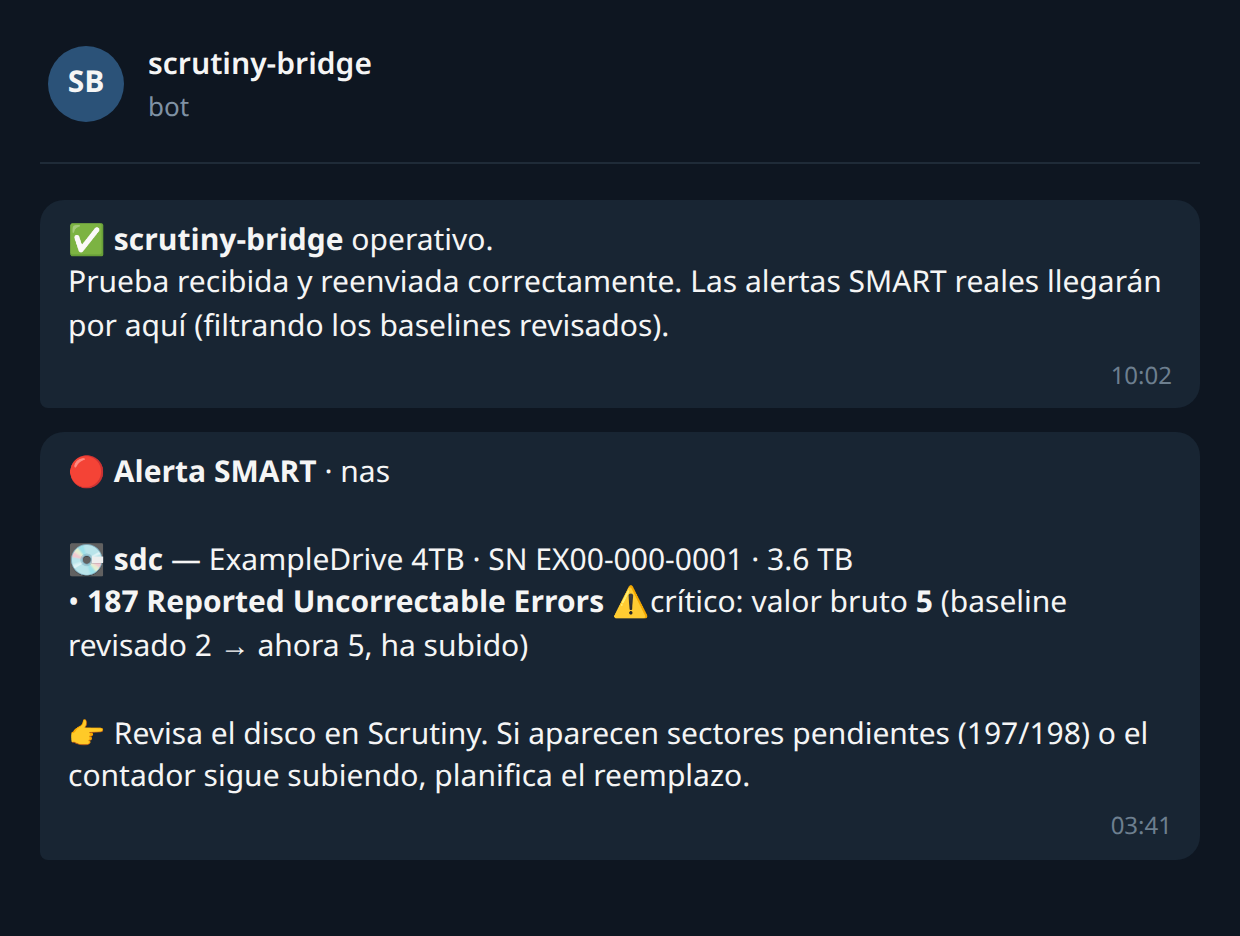
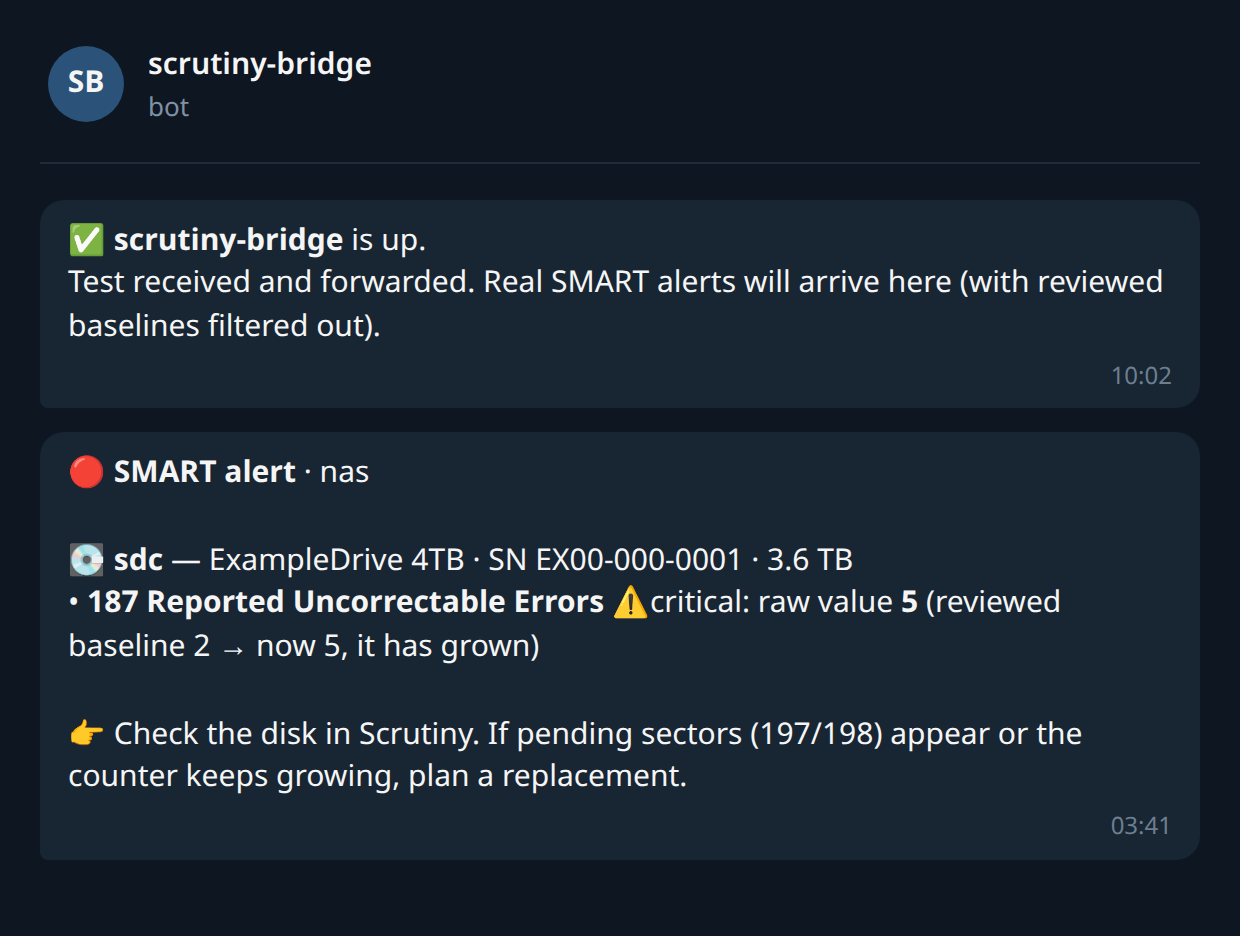
Add MESSAGE_LANGUAGE (es, en) for the Telegram messages

diff --git a/app.py b/app.py
@@ -36,6 +36,7 @@ TG_CHAT = _env("TG_CHAT", "")                 # e.g. -1001234567890
 TG_THREAD = _env("TG_THREAD", "")             # forum topic id (optional)
 PORT = int(_env("PORT", "8091"))
 HOST_LABEL = _env("HOST_LABEL", "")           # shown in the message header (optional)
+MESSAGE_LANGUAGE = _env("MESSAGE_LANGUAGE", "es")  # language of the Telegram messages: es | en
 
 # Whitelisted baselines: { "<wwn>": { "<attr_id>": <max_raw_value> | null } }
 # An attribute flagged by Scrutiny is suppressed only if its raw value is <= the baseline.
@@ -220,8 +221,41 @@ def collect_reportable():
     return reportable
 
 
+# Telegram copy per MESSAGE_LANGUAGE. Add a language by adding a key with the same fields.
+MESSAGES = {
+    "es": {
+        "head": "Alerta SMART",
+        "unverified": "Scrutiny la marca con fallo (no pude leer los atributos).",
+        "critical": "crítico",
+        "trend": "baseline revisado %s → ahora %s, ha subido",
+        "raw": "valor bruto",
+        "advice": "Revisa el disco en Scrutiny. Si aparecen sectores pendientes (197/198) "
+                  "o el contador sigue subiendo, planifica el reemplazo.",
+        "test": "✅ <b>scrutiny-bridge</b> operativo.\n"
+                "Prueba recibida y reenviada correctamente. "
+                "Las alertas SMART reales llegarán por aquí (filtrando los baselines revisados).",
+    },
+    "en": {
+        "head": "SMART alert",
+        "unverified": "Scrutiny flags it as failing (could not read its attributes).",
+        "critical": "critical",
+        "trend": "reviewed baseline %s → now %s, it has grown",
+        "raw": "raw value",
+        "advice": "Check the disk in Scrutiny. If pending sectors (197/198) appear "
+                  "or the counter keeps growing, plan a replacement.",
+        "test": "✅ <b>scrutiny-bridge</b> is up.\n"
+                "Test received and forwarded. "
+                "Real SMART alerts will arrive here (with reviewed baselines filtered out).",
+    },
+}
+if MESSAGE_LANGUAGE not in MESSAGES:
+    print("[bridge] WARN: unknown MESSAGE_LANGUAGE %r, using es" % MESSAGE_LANGUAGE, flush=True)
+    MESSAGE_LANGUAGE = "es"
+T = MESSAGES[MESSAGE_LANGUAGE]
+
+
 def build_message(reportable):
-    head = "🔴 <b>Alerta SMART</b>"
+    head = "🔴 <b>%s</b>" % T["head"]
     if HOST_LABEL:
         head += " · " + esc(HOST_LABEL)
     lines = [head, ""]
@@ -233,19 +267,17 @@ def build_message(reportable):
         cap = human_bytes(d.get("capacity"))
         lines.append("💽 <b>%s</b> — %s · SN %s · %s" % (name, model, serial, cap))
         if item.get("unverified"):
-            lines.append("   ⚠ Scrutiny la marca con fallo (no pude leer los atributos).")
+            lines.append("   ⚠ " + T["unverified"])
         for a in item["attrs"]:
-            crit = " ⚠crítico" if a["critical"] else ""
+            crit = " ⚠" + T["critical"] if a["critical"] else ""
             trend = ""
             if a.get("baseline") is not None:
-                trend = " (baseline revisado %s → ahora %s, ha subido)" % (
-                    esc(a["baseline"]), esc(a.get("raw")))
-            lines.append("   • <b>%s %s</b>%s: valor bruto <b>%s</b>%s" % (
-                esc(a["id"]), esc(a["name"]), crit,
+                trend = " (" + T["trend"] % (esc(a["baseline"]), esc(a.get("raw"))) + ")"
+            lines.append("   • <b>%s %s</b>%s: %s <b>%s</b>%s" % (
+                esc(a["id"]), esc(a["name"]), crit, T["raw"],
                 esc(a.get("raw_string") or a.get("raw")), trend))
         lines.append("")
-    lines.append("👉 Revisa el disco en Scrutiny. Si aparecen sectores pendientes "
-                 "(197/198) o el contador sigue subiendo, planifica el reemplazo.")
+    lines.append("👉 " + T["advice"])
     return "\n".join(lines).strip()
 
 
@@ -257,11 +289,7 @@ def handle_notification(raw_body):
 
     if looks_like_test(raw_body, parsed):
         log("test notification received")
-        ok = send_telegram(
-            "✅ <b>scrutiny-bridge</b> operativo.\n"
-            "Prueba recibida y reenviada correctamente. "
-            "Las alertas SMART reales llegarán por aquí (filtrando los baselines revisados)."
-        )
+        ok = send_telegram(T["test"])
         return "test", ok
 
     reportable = collect_reportable()

diff --git a/README.md b/README.md
@@ -14,7 +14,7 @@ send or not send a Telegram message.
 
 <img src="docs/telegram-alert.png" alt="Two Telegram messages from the bridge: the test confirmation, and an alert for disk sdc whose reviewed baseline on attribute 187 went from 2 to 5" width="620">
 
-*The bridge's own message text (`build_message()`), rendered with sample disk data.*
+*The bridge's own message text (`build_message()` with `MESSAGE_LANGUAGE=en`), rendered with sample disk data.*
 
 ---
 
@@ -166,6 +166,7 @@ All configuration is through environment variables:
 | `TG_TOKEN_FILE` | `/app/telegram.token`       | Path to a file holding the Telegram bot token. |
 | `TG_TOKEN`      | *(empty)*                   | Alternative to the file: token straight from the env. |
 | `HOST_LABEL`    | *(empty)*                   | Optional label shown in the message header (e.g. the machine's name). |
+| `MESSAGE_LANGUAGE` | `es`                     | Language of the Telegram messages: `es` (Spanish) or `en` (English). |
 | `BASELINES`     | `{}`                        | JSON whitelist of reviewed baselines — see below. |
 
 ### Baselines — the whitelist
@@ -222,17 +223,17 @@ Other attributes on the same disk still alert normally.
 **Anything else is forwarded to Telegram**, e.g. when a baselined counter has grown:
 
 ```
-🔴 Alerta SMART · nas
+🔴 SMART alert · nas
 
 💽 sdc — ExampleDrive 4TB · SN EX00-000-0001 · 3.6 TB
-   • 187 Reported Uncorrectable Errors ⚠crítico: valor bruto 5 (baseline revisado 2 → ahora 5, ha subido)
+   • 187 Reported Uncorrectable Errors ⚠critical: raw value 5 (reviewed baseline 2 → now 5, it has grown)
 
-👉 Revisa el disco en Scrutiny. Si aparecen sectores pendientes (197/198) o el contador sigue subiendo, planifica el reemplazo.
+👉 Check the disk in Scrutiny. If pending sectors (197/198) appear or the counter keeps growing, plan a replacement.
 ```
 
-> **Message language:** the alert copy ships in Spanish (the author's language). It's just plain
-> strings in `app.py` (`build_message` and the test handler) — edit them for your own wording or
-> translate them to whatever you like.
+> **Message language:** messages come in Spanish by default (the author's language); set
+> `MESSAGE_LANGUAGE=en` for English. The copy lives in the `MESSAGES` table in `app.py`: edit it
+> for your own wording, or add a language with the same keys.
 
 ## How the filter decides
 
